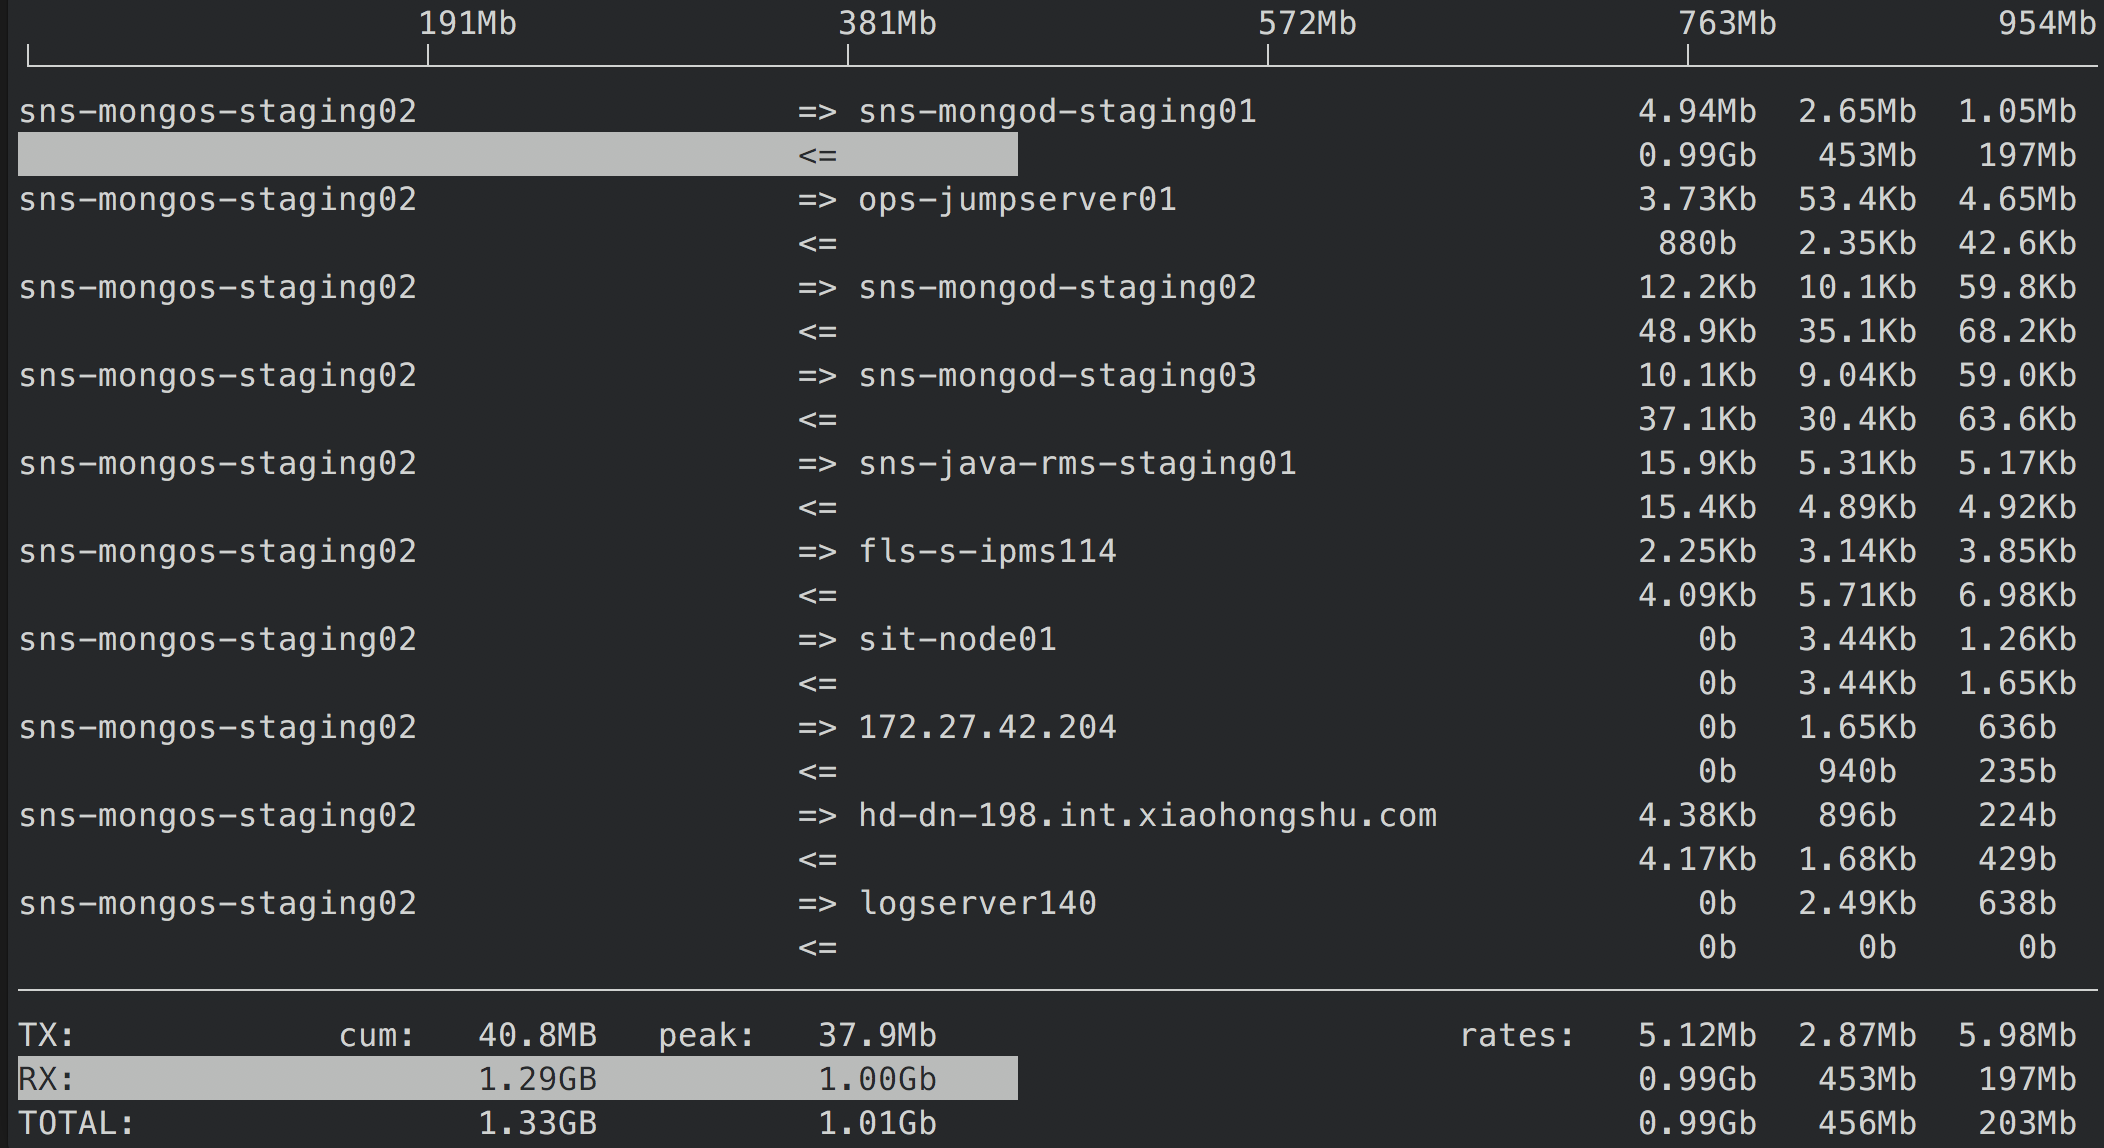
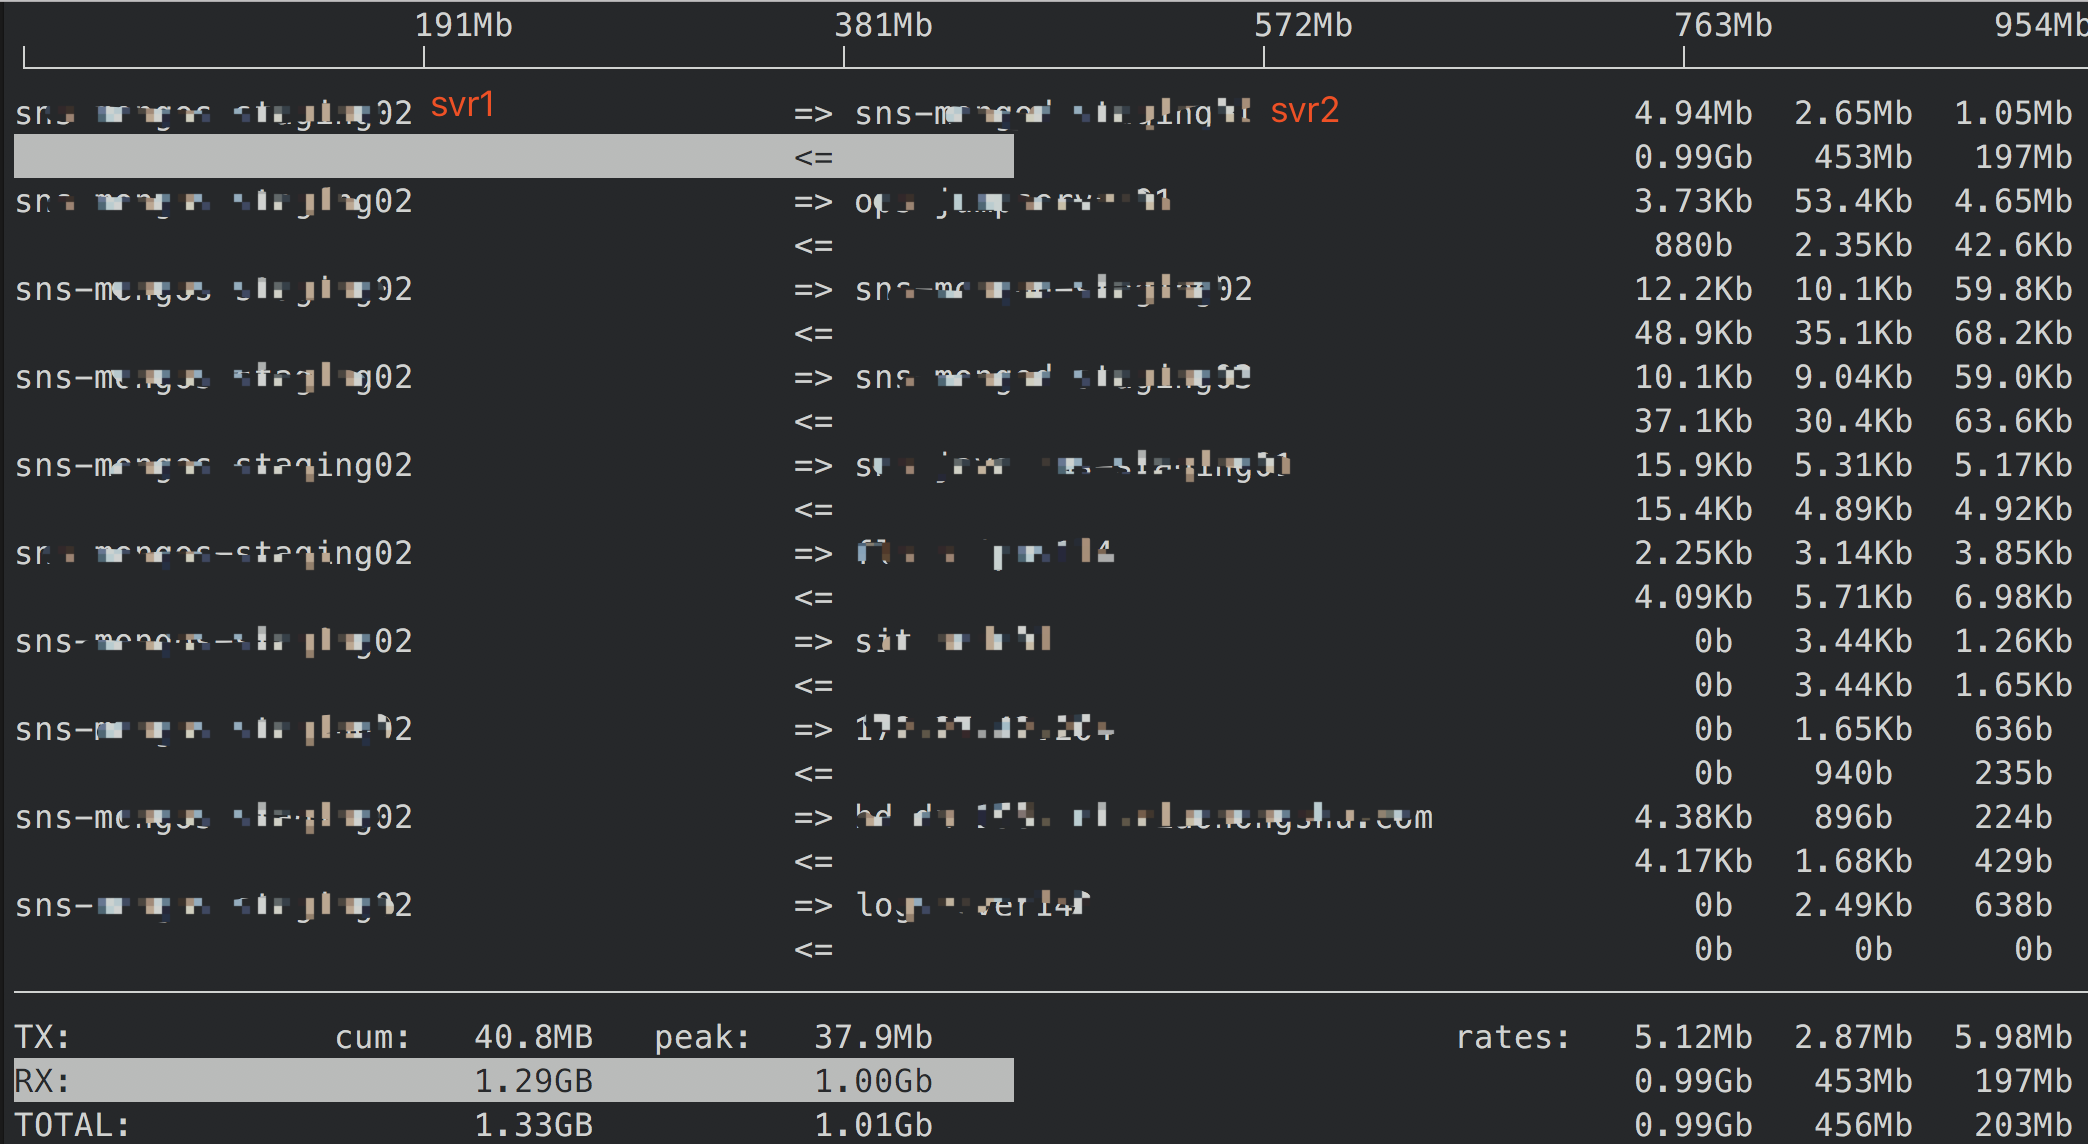
commit

diff --git a/source/_posts/linux-network-tools-iftop.md b/source/_posts/linux-network-tools-iftop.md
@@ -4,13 +4,34 @@ date: 2019-01-28 01:00:38
 tags: devops
 ---
 
-iftop 是linux实时网络带宽监控工具
-
-iftop 工具可以有效统计linux机器的网络负载情况。
+### 一、iftop简介  
+iftop 是linux实时网络带宽监控工具，可以有效统计linux机器的网络带宽负载情况。
+常见使用场景：找出机器上的异常流量来源/监控机器的网络负载变化情况。
 
 <!-- more -->
 
-iftop使用示例:
+### 二、iftop使用示例  
+iftop结果示例:
 ![iftop-w50](/images/iftop.png)
-显示数据分析：
-第一行：刻度行，用来帮助展示流量柱状图。例如途中 sns-mongod-stagin01 到 sns-mongos-staging02的网络流量是400Mb左右。
+* 首部:刻度行  
+表示速率柱状图的刻度。
+
+* 中间部分:展示host之间的带宽速率  
+带宽速率分in/out两个方向，右侧三列分表表示最近 2s/10s/40s内的平均带宽速率 (bits/sec).
+例如图中svr1 到 svr2 之间的带宽速率是:
+> svr1 --> svr2 近2s/10s/40s平均带宽速率分表是 4.94Mb/2.65Mb/1.05Mb。
+> svr2 --> svr1 近2s/10s/40s平均带宽速率分表是 0.99Gb/453Mb/197Mb。  
+
+白色柱状横条表示10s内平均带宽速率的最大值，其数值可以观察面板顶部的刻度行来获得。例如图中的数值大概为430 - 450 Mb左右。
+
+* 底部:整体统计数据  
+TX:发送带宽, RX:接收带宽, Total:总带宽
+cum: iftop运行至当前使用的带宽总量(单位:Bytes)
+peak: 从iftop运作至当前的带宽流量峰值
+rates: 近 2s/10s/40s 的带宽速率均值
+    
+### 三、iftop常用参数:  
+-n 地址显示为ip字符串，而不是hostname
+-P 显示端口
+-N 端口数显示为数字,而不是service name
+-B 带宽速率为 bytes/秒, 而不是 bits/秒
